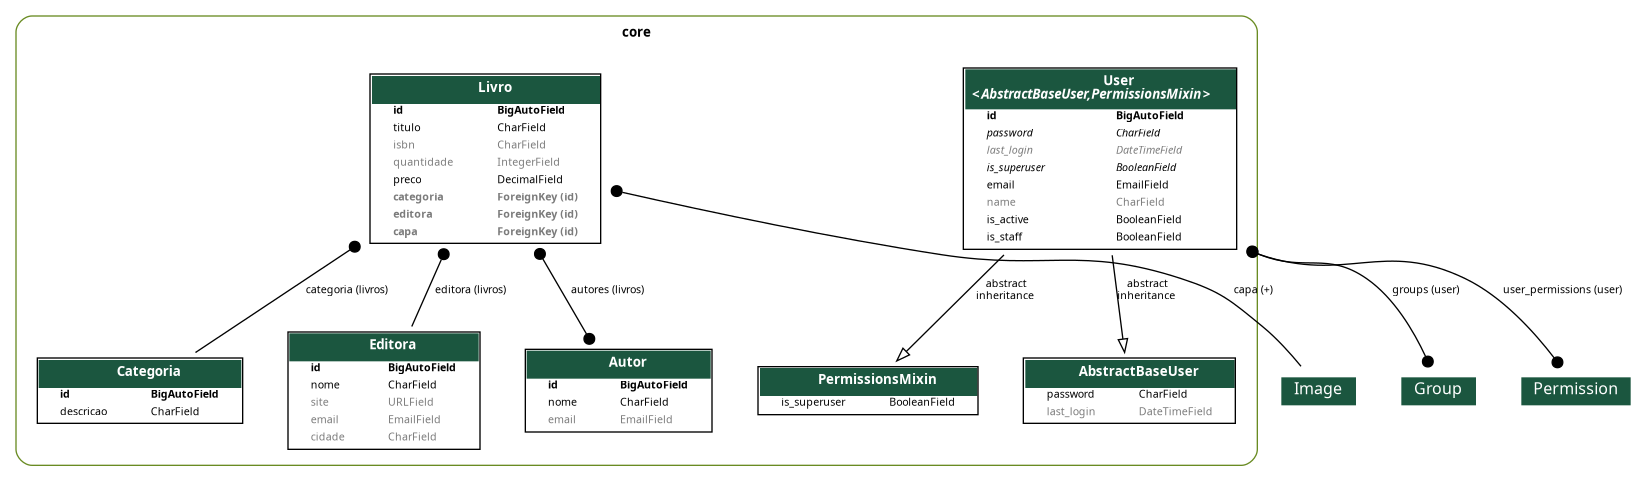
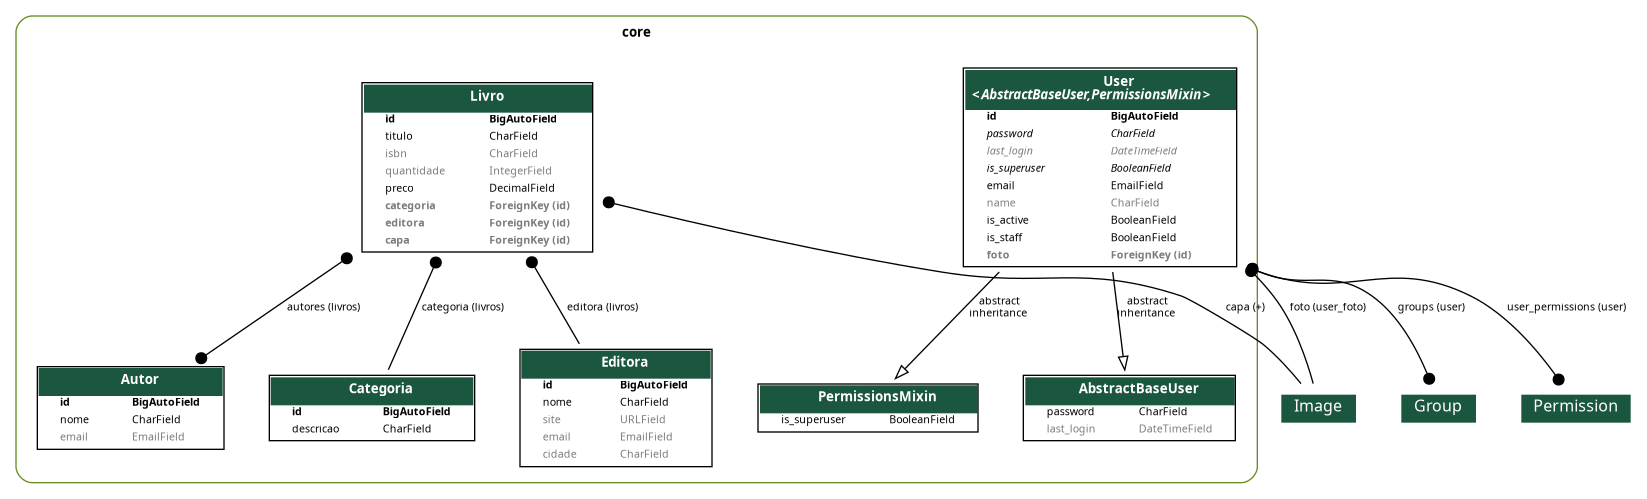
feat: inclusão da foto de perfil no usuário

diff --git a/core/serializers/user.py b/core/serializers/user.py
@@ -1,18 +1,40 @@
-from rest_framework import serializers
-from rest_framework.serializers import ModelSerializer
+from rest_framework.serializers import CharField, ModelSerializer, SlugRelatedField
 
 from core.models import User
+from uploader.models import Image
+from uploader.serializers import ImageSerializer
 
 
 class UserSerializer(ModelSerializer):
+    foto_attachment_key = SlugRelatedField(
+        source='foto',
+        queryset=Image.objects.all(),
+        slug_field='attachment_key',
+        required=False,
+        write_only=True,
+    )
+    foto = ImageSerializer(
+        required=False,
+        read_only=True
+    )
     class Meta:
         model = User
-        fields = ['id', 'email', 'name', 'is_active', 'is_staff', 'is_superuser', 'last_login', 'groups']
+        fields = (
+            'id',
+            'email',
+            'name',
+            'foto',
+            'foto_attachment_key',
+            'is_active',
+            'is_staff',
+            'is_superuser',
+            'last_login',
+            'groups')
         depth = 1
 
 
 class UserRegistrationSerializer(ModelSerializer):
-    password = serializers.CharField(write_only=True, min_length=8)
+    password = CharField(write_only=True, min_length=8)
 
     class Meta:
         model = User

diff --git a/core/models/user.py b/core/models/user.py
@@ -10,6 +10,8 @@ from django.contrib.auth.models import (
 from django.db import models
 from django.utils.translation import gettext_lazy as _
 
+from uploader.models import Image
+
 
 class UserManager(BaseUserManager):
     """Manager for users."""
@@ -49,6 +51,14 @@ class User(AbstractBaseUser, PermissionsMixin):
         default=False,
         verbose_name=_('Usuário é da equipe'),
         help_text=_('Indica que este usuário pode acessar o Admin.'),
+    )
+    foto = models.ForeignKey(
+        Image,
+        related_name='user_foto',
+        on_delete=models.SET_NULL,
+        null=True,
+        blank=True,
+        default=None,
     )
 
     objects = UserManager()

diff --git a/core/admin.py b/core/admin.py
@@ -53,7 +53,7 @@ class UserAdmin(BaseUserAdmin):
     list_display = ['email', 'name']
     fieldsets = (
         (None, {'fields': ('email', 'password')}),
-        (_('Personal Info'), {'fields': ('name',)}),
+        (_('Personal Info'), {'fields': ('name', 'foto',)}),
         (
             _('Permissions'),
             {
@@ -79,6 +79,7 @@ class UserAdmin(BaseUserAdmin):
                     'password1',
                     'password2',
                     'name',
+                    'foto',
                     'is_active',
                     'is_staff',
                     'is_superuser',

diff --git a/core/migrations/0011_user_foto.py b/core/migrations/0011_user_foto.py
@@ -1,0 +1,20 @@
+# Generated by Django 5.2.13 on 2026-05-15 13:25
+
+import django.db.models.deletion
+from django.db import migrations, models
+
+
+class Migration(migrations.Migration):
+
+    dependencies = [
+        ('core', '0010_editora_cidade'),
+        ('uploader', '0001_initial'),
+    ]
+
+    operations = [
+        migrations.AddField(
+            model_name='user',
+            name='foto',
+            field=models.ForeignKey(blank=True, default=None, null=True, on_delete=django.db.models.deletion.SET_NULL, related_name='user_foto', to='uploader.image'),
+        ),
+    ]
